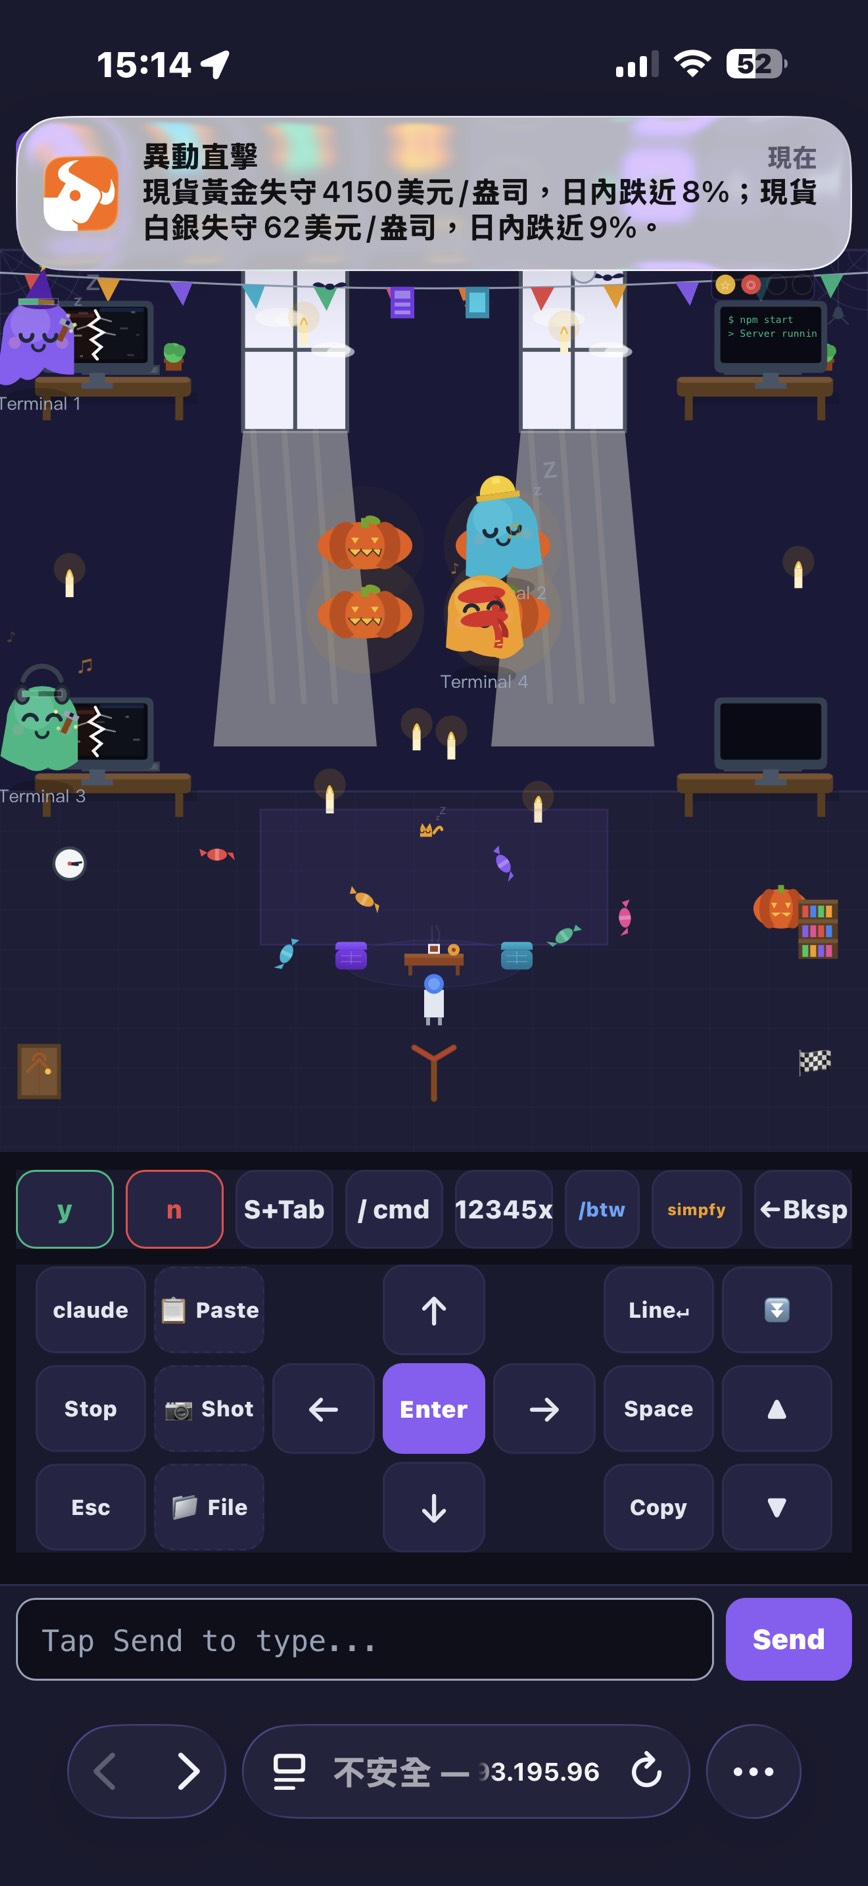
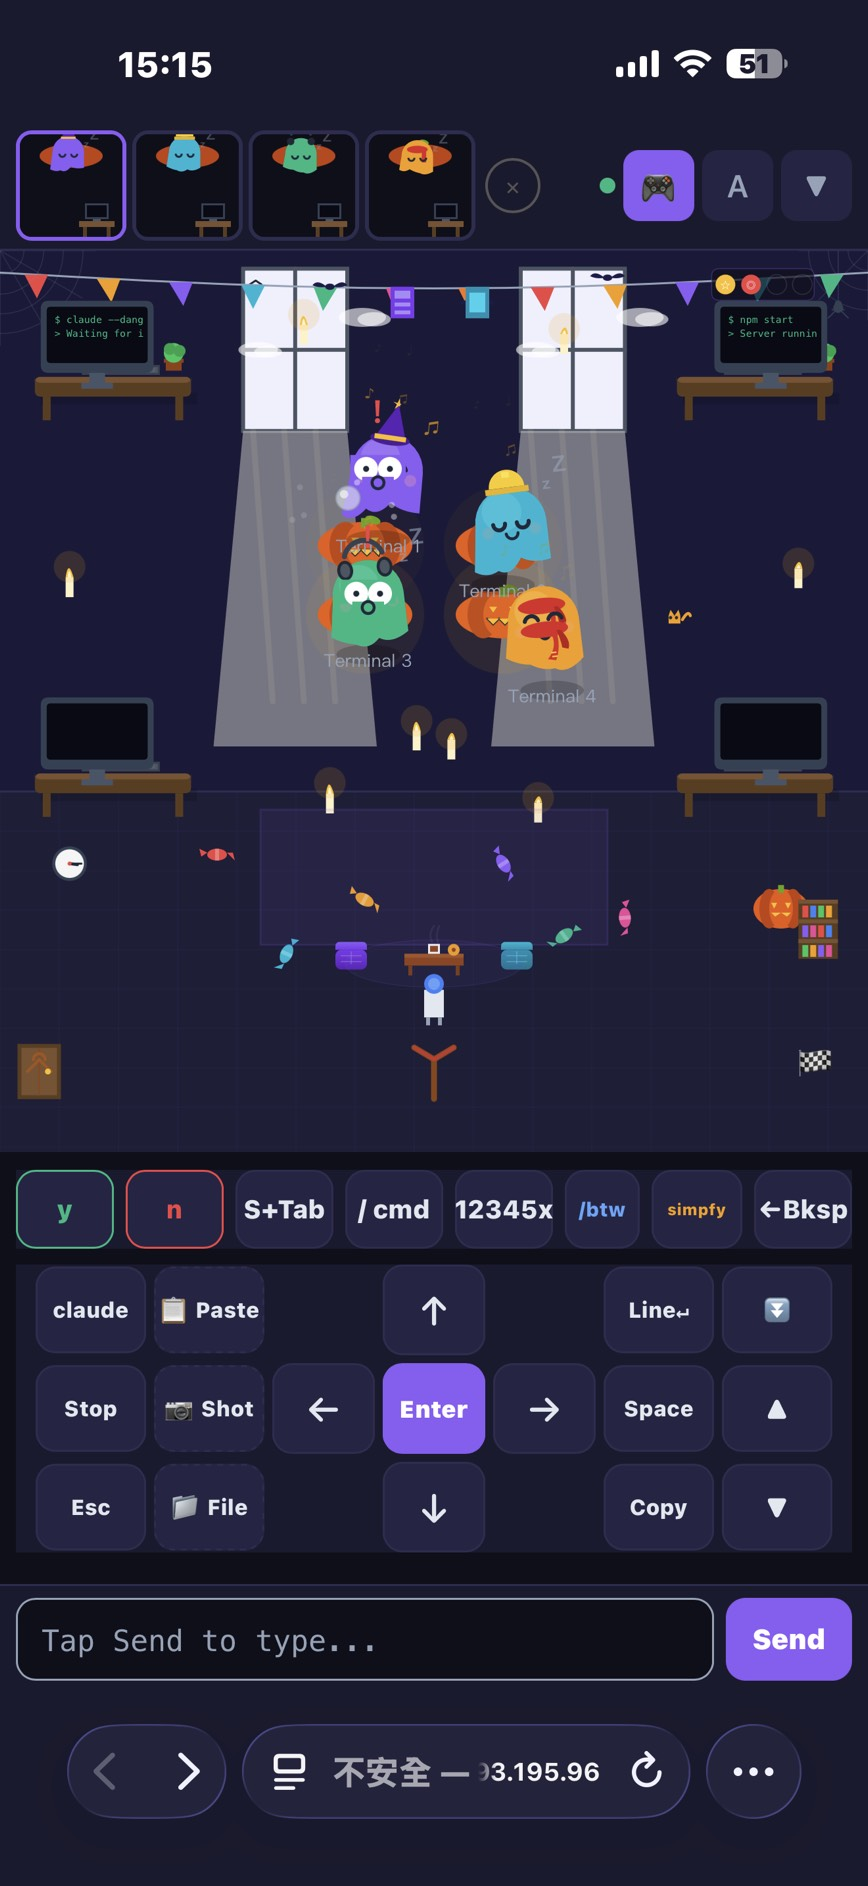
Enhance README with Tailscale guide, Claude Code usage, and fix screenshot
Add step-by-step Tailscale setup instructions, document
--dangerously-skip-permissions toggle and Claude Code workflow.
Replace screenshot that had a notification banner.

diff --git a/README.md b/README.md
@@ -14,13 +14,16 @@ No cloud relay, no port forwarding, no account needed. Your terminal stays on yo
 
 Claude Code is a CLI tool. If you're away from your desk — on the couch, in bed, commuting — you can't use it. GhostTerm gives you a full terminal on your phone with controls designed for touch.
 
+**The killer feature**: tap the `claude` button to launch Claude Code with `--dangerously-skip-permissions`, so it runs fully autonomously — no permission prompts to tap through. You're remote-controlling an AI agent from your phone while it codes on your PC.
+
 ## Features
 
 - **Full terminal** — xterm.js with touch-friendly D-pad, quick buttons (y/n/Enter/Tab/Esc), and text input
-- **Multi-session** — up to 4 Claude Code sessions, switch instantly
-- **Smart reconnect** — delta sync on reconnect, no screen flicker
-- **File upload** — take a photo or pick a file from your phone, it lands on your PC
-- **Screenshot** — capture the terminal and save it
+- **Claude Code integration** — one-tap launch with `--dangerously-skip-permissions` toggle for fully autonomous coding sessions
+- **Multi-session** — up to 4 Claude Code sessions running simultaneously, switch instantly
+- **Smart reconnect** — delta sync on reconnect, no screen flicker (switch apps on your phone, come back, everything's still there)
+- **File upload** — take a photo or pick a file from your phone, it lands on your PC. Paste the path into Claude Code with one tap
+- **Screenshot** — capture the terminal to your PC
 - **Pixel office** — cute ghost animations that show what each session is doing (idle, busy, waiting, error)
 - **PWA** — add to home screen for a native app feel
 - **iOS keyboard handling** — solved all the Safari viewport quirks so the keyboard just works
@@ -31,9 +34,34 @@ Claude Code is a CLI tool. If you're away from your desk — on the couch, in be
 
 ## Prerequisites
 
-1. **[Tailscale](https://tailscale.com/)** installed on both your PC and phone, both logged into the same tailnet
+1. **[Tailscale](https://tailscale.com/)** on both your PC and phone (free for personal use)
 2. **Node.js** 18+ on your PC
-3. **Claude Code** installed on your PC (`npm install -g @anthropic-ai/claude-code`)
+3. **Claude Code** on your PC (`npm install -g @anthropic-ai/claude-code`)
+
+## Tailscale setup (if you haven't used it before)
+
+Tailscale creates a private encrypted network between your devices. No port forwarding, no firewall config needed.
+
+1. **Sign up** at [tailscale.com](https://tailscale.com/) (free for personal use, up to 100 devices)
+
+2. **Install on your PC**
+   - Windows: download from [tailscale.com/download](https://tailscale.com/download) and run the installer
+   - macOS: `brew install tailscale` or download from the website
+   - Linux: `curl -fsSL https://tailscale.com/install.sh | sh`
+
+3. **Install on your phone**
+   - iOS: [App Store](https://apps.apple.com/app/tailscale/id1470499037)
+   - Android: [Google Play](https://play.google.com/store/apps/details?id=com.tailscale.ipn)
+
+4. **Log in on both devices** with the same account (Google, Microsoft, or GitHub)
+
+5. **Verify** — on your PC, run:
+   ```bash
+   tailscale ip
+   ```
+   You should see an IP like `100.x.x.x`. This is your Tailscale IP. Your phone can reach this IP from anywhere — home WiFi, mobile data, coffee shop, doesn't matter.
+
+That's it. Your phone and PC are now on the same private network.
 
 ## Setup
 
@@ -44,9 +72,38 @@ npm install
 npm start
 ```
 
-On startup, a QR code appears in the terminal. Scan it with your phone (both devices must be on Tailscale).
+On startup you'll see:
 
-The server binds only to your Tailscale IP (`100.x.x.x`) — it is **not** accessible from the public internet.
+```
+=================================
+  Claude Remote Control
+=================================
+  Local:  http://localhost:3777
+  Mobile: http://100.x.x.x:3777
+=================================
+
+Scan with your phone:
+▄▄▄▄▄▄▄▄▄▄▄▄▄▄▄
+█ ▄▄▄▄▄ █ █ ...
+```
+
+Scan the QR code with your phone, or type the Mobile URL into your phone's browser.
+
+> **Tip**: On iOS, tap Share > Add to Home Screen to use it as a full-screen app.
+
+## Using Claude Code with GhostTerm
+
+1. Tap the **`claude`** button at the bottom-left — a menu pops up:
+   - **`--dangerously-skip-permissions: ON/OFF`** — toggle at the top. When ON, Claude Code runs without asking for permission on every file edit, command, etc. This is the recommended mode for remote use, since tapping "y" on every prompt from your phone gets tedious fast.
+   - **New Session** — start a fresh Claude Code session
+   - **Resume** — resume your last conversation
+   - **Continue** — continue with previous context
+
+2. Type your prompt in the input bar at the bottom and tap **Send**
+
+3. Use **y** / **n** buttons for quick confirmation, **↑↓←→** for navigation, **Tab** and **Shift+Tab** to cycle through Claude Code's UI
+
+4. You can run **up to 4 sessions** simultaneously — each one gets its own ghost in the pixel office header. Tap the `+` buttons at the top to create new sessions.
 
 ## Configuration
 
@@ -77,10 +134,10 @@ Phone (Safari/Chrome)          Tailscale VPN           Your PC
 
 ## Security
 
-- **LAN only** — binds to Tailscale IP, not `0.0.0.0`
+- **LAN only** — binds to Tailscale IP, not `0.0.0.0`. Not accessible from the public internet
 - **No cloud** — direct encrypted connection via WireGuard (Tailscale)
 - **Optional passcode** — set `ACCESS_CODE` to require a code on connect
-- **No data leaves your network** — terminal I/O never touches the internet
+- **No data leaves your network** — terminal I/O stays between your phone and PC
 
 ## Platform support
 
